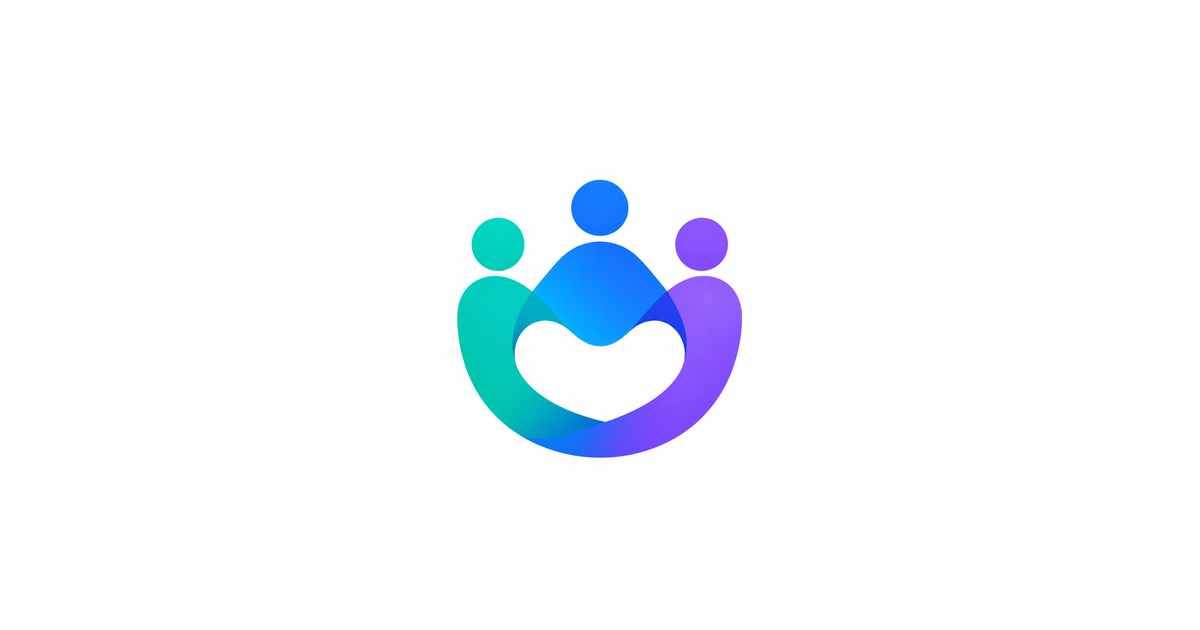
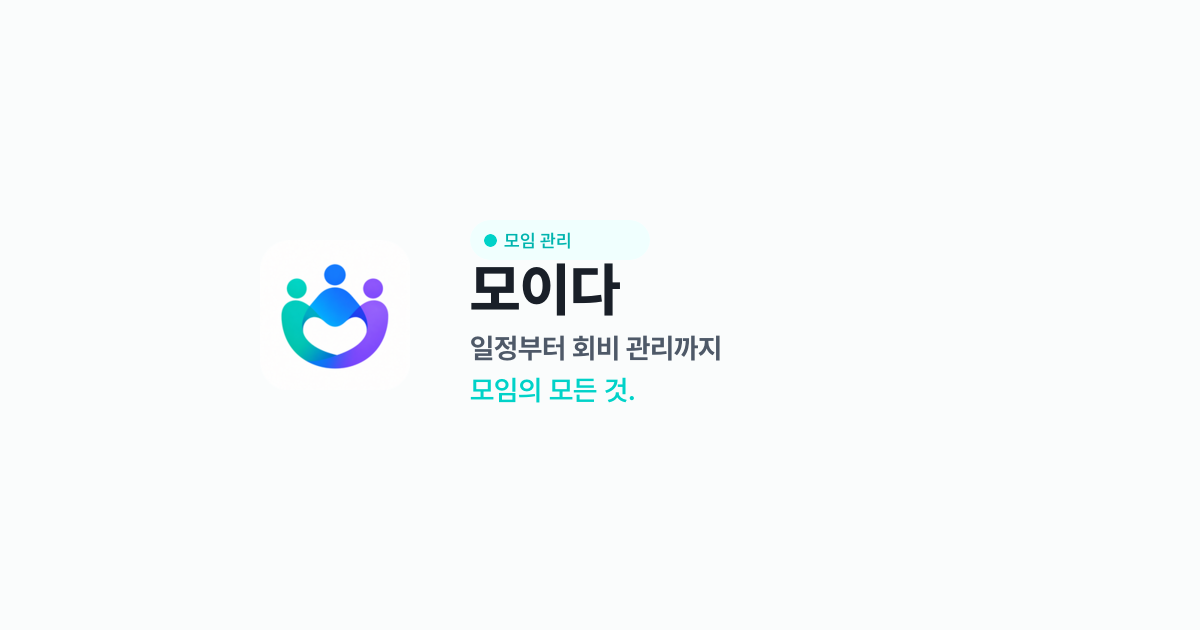
OG 이미지 개선: Calendog 스타일 (앱 아이콘 + 브랜드 텍스트 + 모임관리 뱃지)

Changed region(s): [[0.37, 0.2714, 0.6167, 0.7238], [0.2158, 0.4222, 0.3392, 0.6032]]

diff --git a/index.html b/index.html
@@ -5,15 +5,17 @@
 <meta name="viewport" content="width=device-width, initial-scale=1.0">
 <title>모이다 — 모임 운영, 흩어진 걸 하나로</title>
 <meta name="description" content="회비부터 일정, 채팅까지 모임의 모든 것. 카톡·엑셀·밴드 따로 쓰지 마세요. 모이다 하나로 끝.">
-<meta property="og:title" content="모이다 — 모임 운영, 흩어진 걸 하나로">
-<meta property="og:description" content="회비부터 일정, 채팅까지 모임의 모든 것. 카톡·엑셀·밴드 따로 쓰지 마세요.">
-<meta property="og:image" content="https://moida-landing.vercel.app/og-image.png">
+<meta property="og:title" content="모이다 — 일정부터 회비 관리까지, 모임의 모든 것">
+<meta property="og:description" content="공지, 일정, 회비, 채팅까지 모임 운영에 필요한 모든 것을 하나로. 지금 무료로 시작하세요.">
+<meta property="og:image" content="https://moida-landing.vercel.app/og-image.png?v=2">
+<meta property="og:image:width" content="1200">
+<meta property="og:image:height" content="630">
 <meta property="og:url" content="https://moida-landing.vercel.app">
 <meta property="og:type" content="website">
 <meta name="twitter:card" content="summary_large_image">
-<meta name="twitter:title" content="모이다 — 모임 운영, 흩어진 걸 하나로">
-<meta name="twitter:description" content="회비부터 일정, 채팅까지 모임의 모든 것.">
-<meta name="twitter:image" content="https://moida-landing.vercel.app/og-image.png">
+<meta name="twitter:title" content="모이다 — 일정부터 회비 관리까지, 모임의 모든 것">
+<meta name="twitter:description" content="공지, 일정, 회비, 채팅까지 모임 운영에 필요한 모든 것을 하나로.">
+<meta name="twitter:image" content="https://moida-landing.vercel.app/og-image.png?v=2">
 <link rel="icon" href="icon.png" type="image/png">
 <link rel="apple-touch-icon" href="icon.png">
 <link rel="stylesheet" href="https://cdn.jsdelivr.net/gh/orioncactus/pretendard@v1.3.9/dist/web/variable/pretendardvariable-dynamic-subset.min.css">